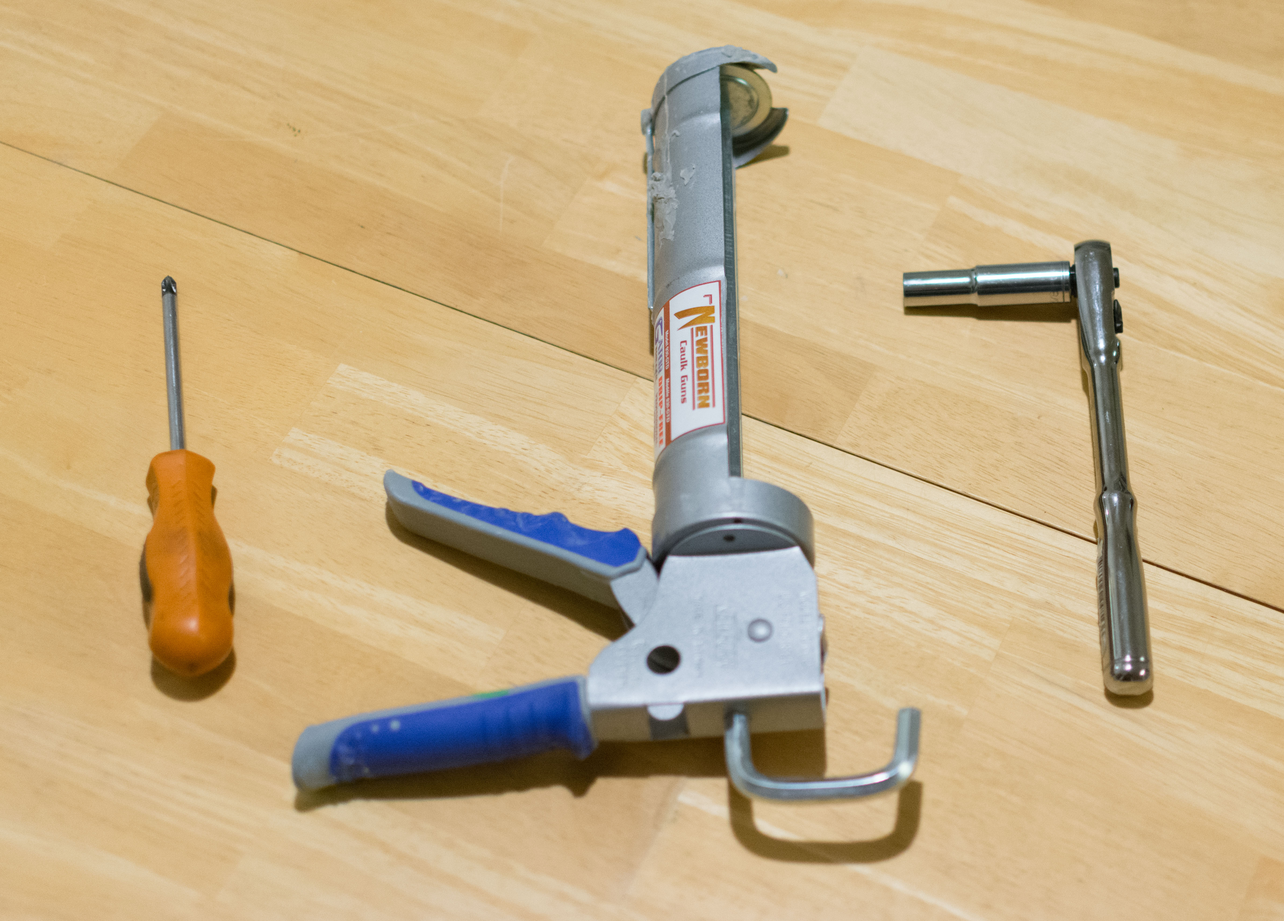
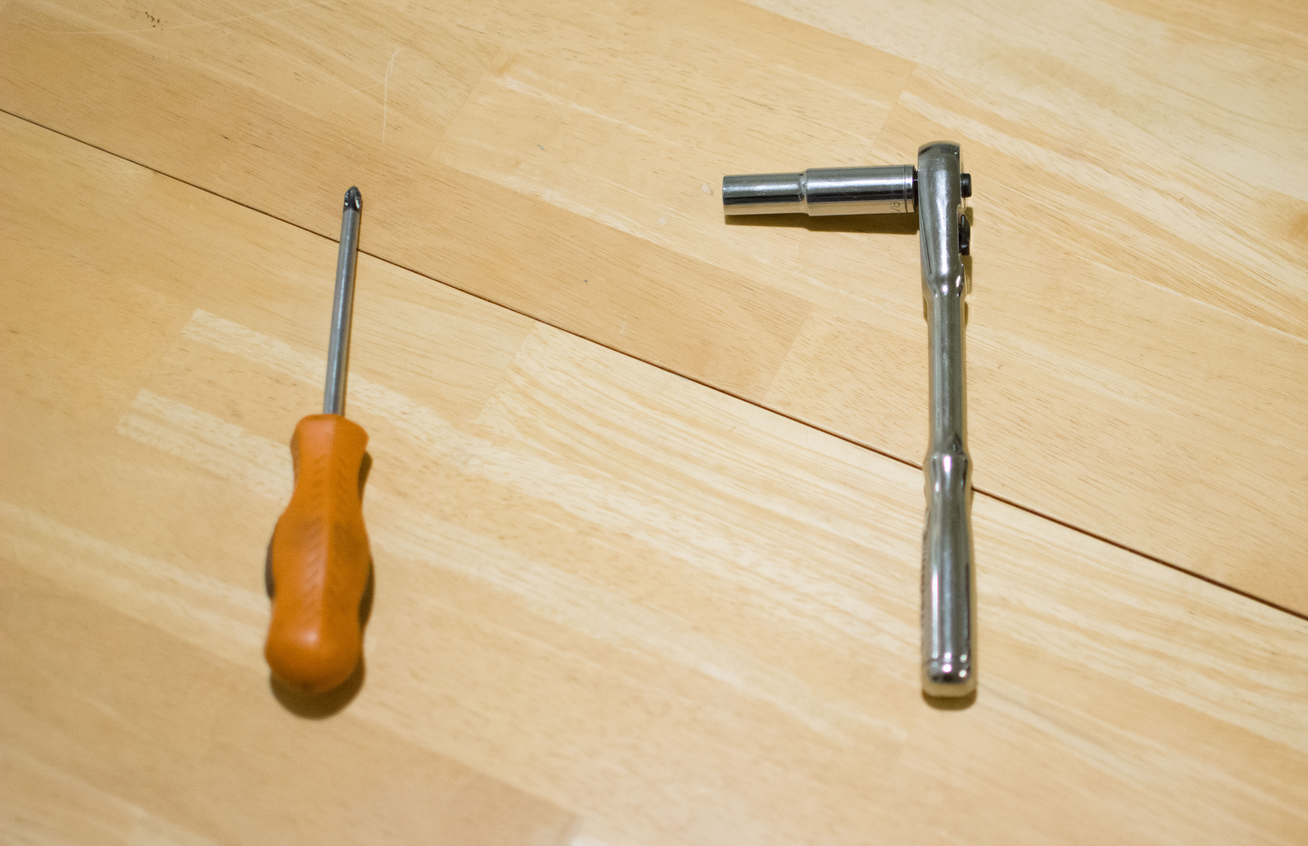
change pics

diff --git a/_layouts/default.html b/_layouts/default.html
@@ -9,7 +9,7 @@
 <!-- Header -->
 <header>
     <div class="" style=" padding-top:100px; padding-bottom:100px;">
-                <img style="width:100%;" class="" src="img/pairs/DSC4089.jpg" alt="">
+                <img style="width:100%;" class="" src="img/cover.jpg" alt="">
         <div class="row">
             <div class="col-lg-12" style="text-align:center;">
                 <div class="intro-text" style="width:80%; margin-left: auto; margin-right:auto;">
@@ -105,7 +105,7 @@
             <div class="row">
                 <div class="text-center ">
                     <p class="desc">
-                    You just need a screw driver, socket wrench, and a caulk gun.  No drill needed.
+                    You just need a screw driver and a socket wrench.  A caulking gun is recommended.  No drill needed.
                     </p>
                 </div>
             </div>
